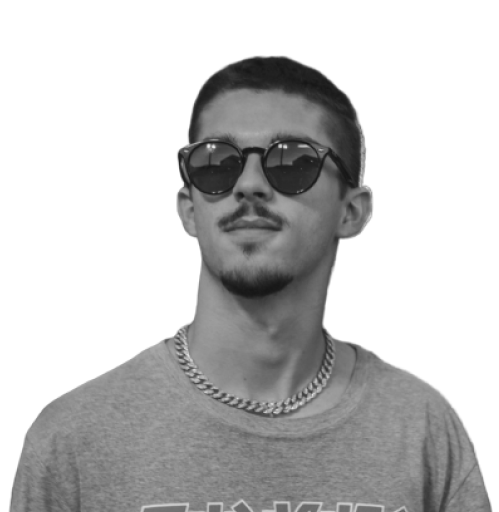
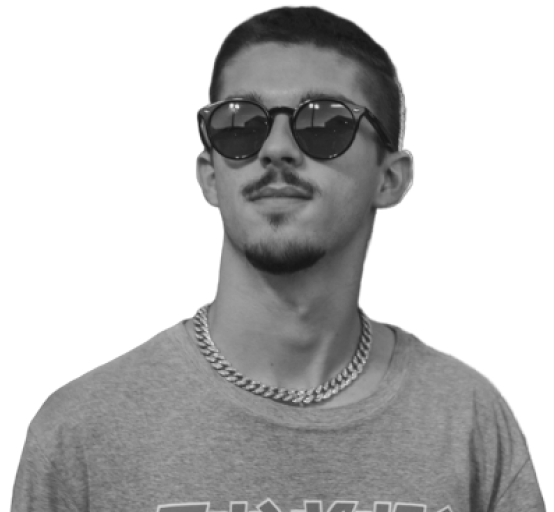
Finish core layout responsive

diff --git a/src/pages/styles.js b/src/pages/styles.js
@@ -83,30 +83,22 @@ export const MediaIcon = styled.img`
 export const Main = styled.section`
   display: flex;
   flex-direction: column;
-  flex: 1 1 500px;
+  flex: 1 1 600px;
   align-items: flex-start;
   justify-content: center;
   margin-top: -80px;
 
-  @media (max-width: 1290px) {
+  @media (max-width: 1270px) {
     margin-top: 0px;
   }
 
   @media (max-width: 800px) {
     padding-left: 40px;
   }
-`
 
-export const Photo = styled.section`
-  display: flex;
-  flex: 1 1 665px;
-  align-items: flex-start;
-  width: 665px;
-`
-
-export const AkinnImage = styled.img`
-  object-fit: contain;
-  width: 100%;
+  @media (max-width: 560px) {
+    flex: 1 1 400px;
+  }
 `
 
 export const Name = styled.h1`
@@ -122,6 +114,10 @@ export const Title = styled.h2`
   font-weight: 100;
   font-size: 68px;
   margin-bottom: 45px;
+
+  @media (max-width: 560px) {
+    font-size: 40px;
+  }
 `
 
 export const Text = styled.p`
@@ -129,6 +125,10 @@ export const Text = styled.p`
   font-weight: 100;
   font-size: 24px;
   margin-bottom: 45px;
+
+  @media (max-width: 560px) {
+    font-size: 16px;
+  }
 `
 
 export const Email = styled.p`
@@ -136,11 +136,30 @@ export const Email = styled.p`
   font-size: 22px;
   margin-bottom: 8px;
 `
-export const ButtonEmail = styled.p`
+export const ButtonEmail = styled.a`
   color: #333333;
   opacity: 50%;
   font-size: 14px;
   margin-bottom: 45px;
+`
+
+export const PhotoContainer = styled.section`
+  display: flex;
+  flex: 1 1 500px;
+  align-items: flex-end;
+
+  @media (max-width: 560px) {
+    flex: 1 1 300px;
+  }
+`
+
+export const AkinnImage = styled.img`
+  object-fit: contain;
+  flex: 1;
+
+  @media (max-width: 560px) {
+    width: 100%;
+  }
 `
 
 export default GlobalStyle

diff --git a/src/pages/index.js b/src/pages/index.js
@@ -14,7 +14,7 @@ import GlobalStyle, {
   Medias,
   MediaIcon,
   Main,
-  Photo,
+  PhotoContainer,
   AkinnImage,
   Content,
 } from "./styles"
@@ -57,9 +57,9 @@ const IndexPage = () => (
           <Email>akinncar@hotmail.com</Email>
           <ButtonEmail>CLICK TO E-MAIL</ButtonEmail>
         </Main>
-        <Photo>
+        <PhotoContainer>
           <AkinnImage src={Akinn} alt="Akinn Rosa" />
-        </Photo>
+        </PhotoContainer>
       </Content>
     </Container>
     {/* <Link to="/page-2/">Go to page 2</Link> */}

diff --git a/src/components/Nav/styles.js b/src/components/Nav/styles.js
@@ -6,9 +6,13 @@ export const Container = styled.ul`
   margin: 0 auto;
   height: 80px;
   align-items: center;
-  padding-left: 85px;
-  box-shadow: 0px 0px 1px rgba(0, 0, 0, 0.2);
-  /* background-color: #773; */
+  padding-left: 110px;
+  /* box-shadow: 0px 0px 1px rgba(0, 0, 0, 0.2); */
+
+  @media (max-width: 800px) {
+    justify-content: center;
+    padding-left: 0;
+  }
 `
 
 export const NavItem = styled.li`
